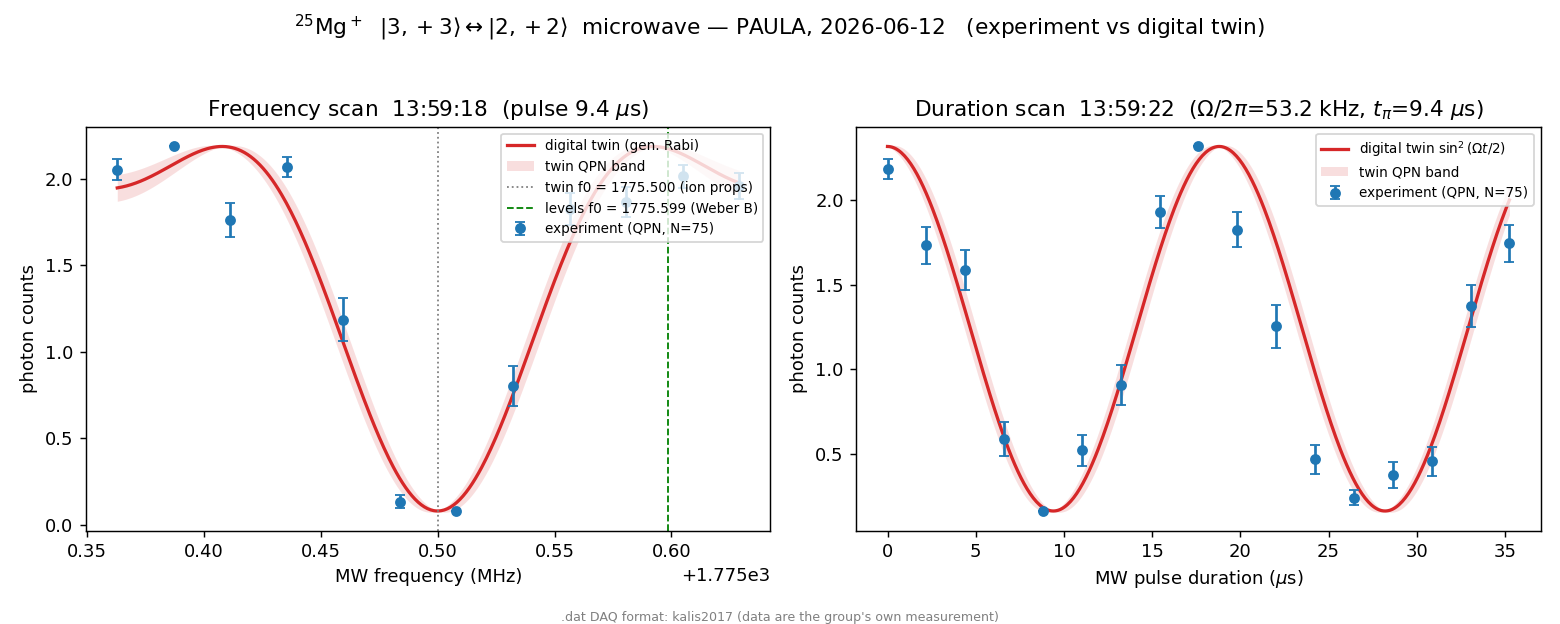
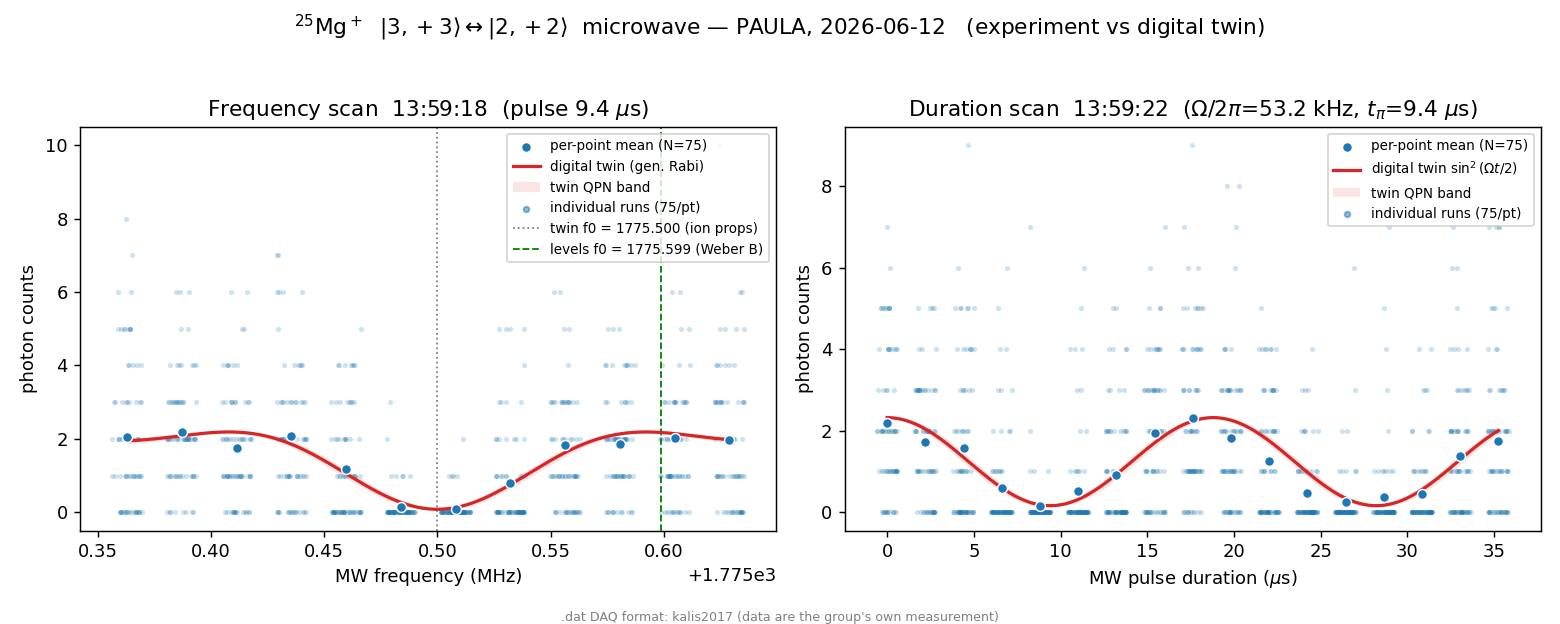
feat(spike): show each experimental run as a point (per-shot count variation)
UW: indicate the variation of counts by plotting each experimental run as a point. Added DatFile.point_shots() reconstructing the individual per-shot photon counts at each scan point from the per-point histograms (signal counter = the higher-variance npts-block; histogram[i] pairs with data row i). plot_scans now scatters every run (jittered in x) + the per-point mean + the twin curve + the QPN band, in raw count space. The shot cloud shows the empirical (super-Poissonian) count spread; the mean markers sit on the twin within the QPN band.

Tests 139 -> 141; figures regenerated for all three transitions; substrate green.

diff --git a/spike/plot_scans.py b/spike/plot_scans.py
@@ -13,6 +13,7 @@ from __future__ import annotations
 
 import glob
 import os
+import random
 import re
 from pathlib import Path
 
@@ -106,21 +107,29 @@ def plot_pair(base, freq_path, dur_path, out_path, ledger=None):
         rabi_hz = fit_rabi(*dur.signal())["freq_hz"]       # fall back to the duration-scan fit
         t_pi_us = 1e6 / (2.0 * rabi_hz)
 
-    def _panel(ax, x, counts, gx, gp, twin_label):
-        """Plot raw photon counts (no normalisation) + the twin curve and QPN band
-        mapped into count space via the per-scan bright/dark levels (used only to
-        PLACE the twin, not to rescale the data). QPN = sqrt(P(1-P)/N) in counts =
-        span * sqrt(P(1-P)/N)."""
-        s_br, s_dk = max(counts), min(counts)
+    def _panel(ax, pts, gx, gp, twin_label):
+        """Raw photon counts, EVERY experimental run as a point (the count variation),
+        plus the per-point mean, the twin curve and the QPN band — the last mapped into
+        count space via the per-point bright/dark means (only to PLACE the twin; the
+        data are untouched). QPN in counts = span * sqrt(P(1-P)/N)."""
+        xs = [x for x, _ in pts]
+        means = [sum(s) / len(s) for _, s in pts]
+        s_br, s_dk = max(means), min(means)
         span = (s_br - s_dk) or 1.0
-        p_data = [min(1.0, max(0.0, (s_br - c) / span)) for c in counts]
-        ax.errorbar(x, counts, yerr=[span * qpn(p, n_shots) for p in p_data], fmt="o", ms=5,
-                    capsize=3, color=_BLUE, label=f"experiment (QPN, N={n_shots})", zorder=3)
+        xr = (max(xs) - min(xs)) or 1.0
+        width = 0.55 * xr / max(1, len(xs) - 1)
+        rng = random.Random(0)
+        for x, shots in pts:                                  # each run = a point (jittered in x)
+            ax.scatter([x + width * (rng.random() - 0.5) for _ in shots], shots,
+                       s=8, color=_BLUE, alpha=0.22, lw=0, zorder=2)
+        ax.scatter(xs, means, s=30, color=_BLUE, edgecolor="white", lw=0.8, zorder=4,
+                   label=f"per-point mean (N={n_shots})")
         tw = [s_br - p * span for p in gp]
         band = [span * qpn(p, n_shots) for p in gp]
-        ax.plot(gx, tw, "-", color=_RED, lw=1.8, label=twin_label, zorder=2)
+        ax.plot(gx, tw, "-", color=_RED, lw=1.8, label=twin_label, zorder=3)
         ax.fill_between(gx, [t - b for t, b in zip(tw, band)], [t + b for t, b in zip(tw, band)],
-                        color=_RED, alpha=0.15, lw=0, label="twin QPN band", zorder=1)
+                        color=_RED, alpha=0.12, lw=0, label="twin QPN band", zorder=1)
+        ax.scatter([], [], s=10, color=_BLUE, alpha=0.5, label=f"individual runs ({n_shots}/pt)")
 
     f_levels = None
     if ledger is not None:
@@ -132,11 +141,12 @@ def plot_pair(base, freq_path, dur_path, out_path, ledger=None):
 
     fig, (ax_f, ax_d) = plt.subplots(1, 2, figsize=(12, 4.8))
 
-    # frequency scan (raw counts)
-    fx, fy, _ = freq.signal()
+    # frequency scan (raw counts, individual runs)
+    pts_f = freq.point_shots()
+    fx = [x for x, _ in pts_f]
     gx = _grid(min(fx), max(fx))
     gp = [generalized_rabi(t_pulse_s, (f - f0) * 1e6, rabi_hz) for f in gx]
-    _panel(ax_f, fx, fy, gx, gp, "digital twin (gen. Rabi)")
+    _panel(ax_f, pts_f, gx, gp, "digital twin (gen. Rabi)")
     ax_f.axvline(f0, color="gray", ls=":", lw=1, label=f"twin f0 = {f0:.3f} (ion props)")
     if f_levels:
         ax_f.axvline(f_levels, color="green", ls="--", lw=1, label=f"levels f0 = {f_levels:.3f} (Weber B)")
@@ -146,11 +156,12 @@ def plot_pair(base, freq_path, dur_path, out_path, ledger=None):
     ax_f.set_title(f"Frequency scan  {_ft[1] if len(_ft) > 1 else ''}  (pulse {t_pulse_s * 1e6:.1f} $\\mu$s)")
     ax_f.legend(fontsize=7.5, loc="upper right")
 
-    # duration scan (raw counts)
-    dx, dy, _ = dur.signal()
+    # duration scan (raw counts, individual runs)
+    pts_d = dur.point_shots()
+    dx = [x for x, _ in pts_d]
     gt = _grid(0.0, max(dx))
     gpd = [generalized_rabi(t * 1e-6, 0.0, rabi_hz) for t in gt]
-    _panel(ax_d, dx, dy, gt, gpd, r"digital twin $\sin^2(\Omega t/2)$")
+    _panel(ax_d, pts_d, gt, gpd, r"digital twin $\sin^2(\Omega t/2)$")
     _dt = (dur.timestamp or "").split()
     ax_d.set_xlabel(r"MW pulse duration ($\mu$s)")
     ax_d.set_ylabel("photon counts")

diff --git a/spike/datfile.py b/spike/datfile.py
@@ -130,6 +130,35 @@ class DatFile:
             groups.append(cur)
         return groups
 
+    def point_shots(self):
+        """[(x, [shot_count, ...])] for the ion-fluorescence counter: the individual
+        per-shot photon counts at each scan point, reconstructed from the per-point
+        histograms. histogram[i] pairs with the i-th data row (file order); the signal
+        counter is the higher-variance of the two npts-row blocks (the reference is the
+        near-constant ~0.013 floor)."""
+        sc = self.scan
+        if not sc:
+            return []
+        npts = sc["points"]
+        hists = self.histograms()
+        rows = self._data
+
+        def _var(block):
+            m = [r[1] for r in block]
+            mu = sum(m) / len(m) if m else 0.0
+            return sum((v - mu) ** 2 for v in m) / len(m) if m else 0.0
+
+        if len(rows) >= 2 * npts and len(hists) >= 2 * npts and _var(rows[npts:2 * npts]) > _var(rows[:npts]):
+            block_rows, block_h = rows[npts:2 * npts], hists[npts:2 * npts]
+        else:
+            n = min(npts, len(rows), len(hists))
+            block_rows, block_h = rows[:n], hists[:n]
+        out = []
+        for r, hist in zip(block_rows, block_h):
+            shots = [c for c, occ in sorted(hist.items()) for _ in range(occ)]
+            out.append((r[0], shots))
+        return out
+
     @staticmethod
     def hist_mean(hist: dict) -> float:
         n = sum(hist.values())

diff --git a/spike/test_datfile.py b/spike/test_datfile.py
@@ -37,6 +37,19 @@ def test_histograms_mean_matches_signal():
     assert means[-1] == pytest.approx(5.8, abs=0.1)             # bright
 
 
+def test_point_shots_reconstructs_per_run_counts():
+    d = DatFile(_DUR)
+    pts = d.point_shots()
+    assert len(pts) == 17
+    assert all(len(shots) == 75 for _, shots in pts)            # exp_point shots/point
+    # per-shot means reproduce the signal means; the dark reference is NOT selected
+    by_x = {round(x, 3): sum(s) / len(s) for x, s in pts}
+    xs, ys, _ = d.signal()
+    for x, y in zip(xs, ys):
+        assert by_x[round(x, 3)] == pytest.approx(y, abs=1e-6)
+    assert max(sum(s) / len(s) for _, s in pts) > 4.0           # bright (not the 0.013 reference)
+
+
 def test_timestamp_from_filename():
     assert DatFile(_DUR).timestamp == "2026-06-15 13:28:39"
     assert DatFile(_FREQ).timestamp == "2026-06-15 13:28:34"

diff --git a/docs/DATA_FORMAT.md b/docs/DATA_FORMAT.md
@@ -55,9 +55,11 @@ The duration scan's Ω/2π is consistent with the tabulated `mw_rabi_3p3_2p2_doe
 ground-state transition the `levels` (Breit-Rabi) engine can predict.
 
 **Experiment vs digital twin.** `python -m spike.plot_scans` overlays the
-generalized-Rabi twin prediction on both scans with the quantum-projection-noise
-band — every twin parameter (sample size N, the π-time → Ω, the resonance, the
-pulse duration) read from the ion properties. It auto-discovers each transition
+generalized-Rabi twin prediction on both scans, showing **each experimental run as
+a point** (the per-shot count variation, reconstructed from the per-point
+histograms), the per-point mean, and the quantum-projection-noise band — every twin
+parameter (sample size N, the π-time → Ω, the resonance, the pulse duration) read
+from the ion properties. It auto-discovers each transition
 (parsed from the scan parameter `fr_mw_<tr>` / `t_mw_<tr>`) and writes
 `docs/figures/mw_<tr>_<date>_twin_vs_data.png`. E.g. the well-calibrated stretched
 transition |3,+3⟩↔|2,+2⟩: